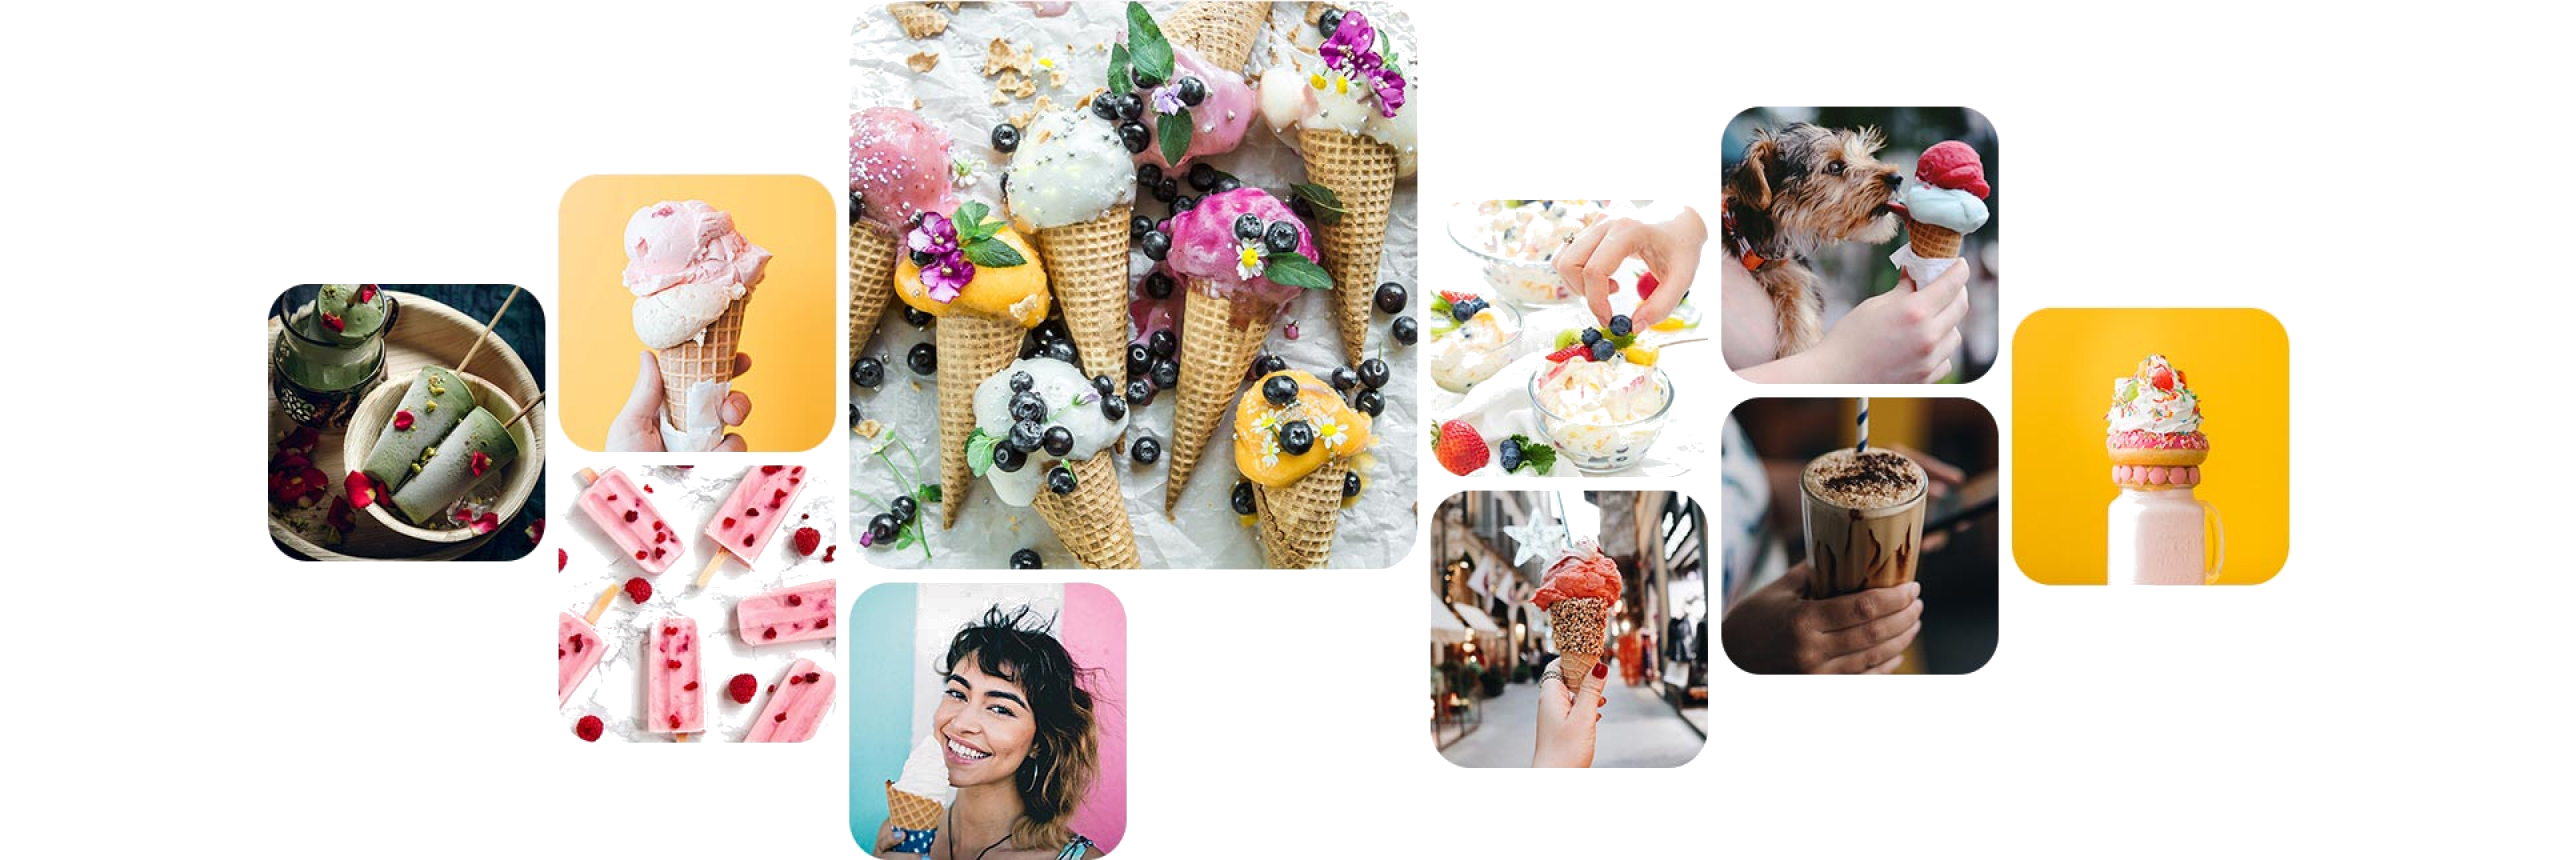
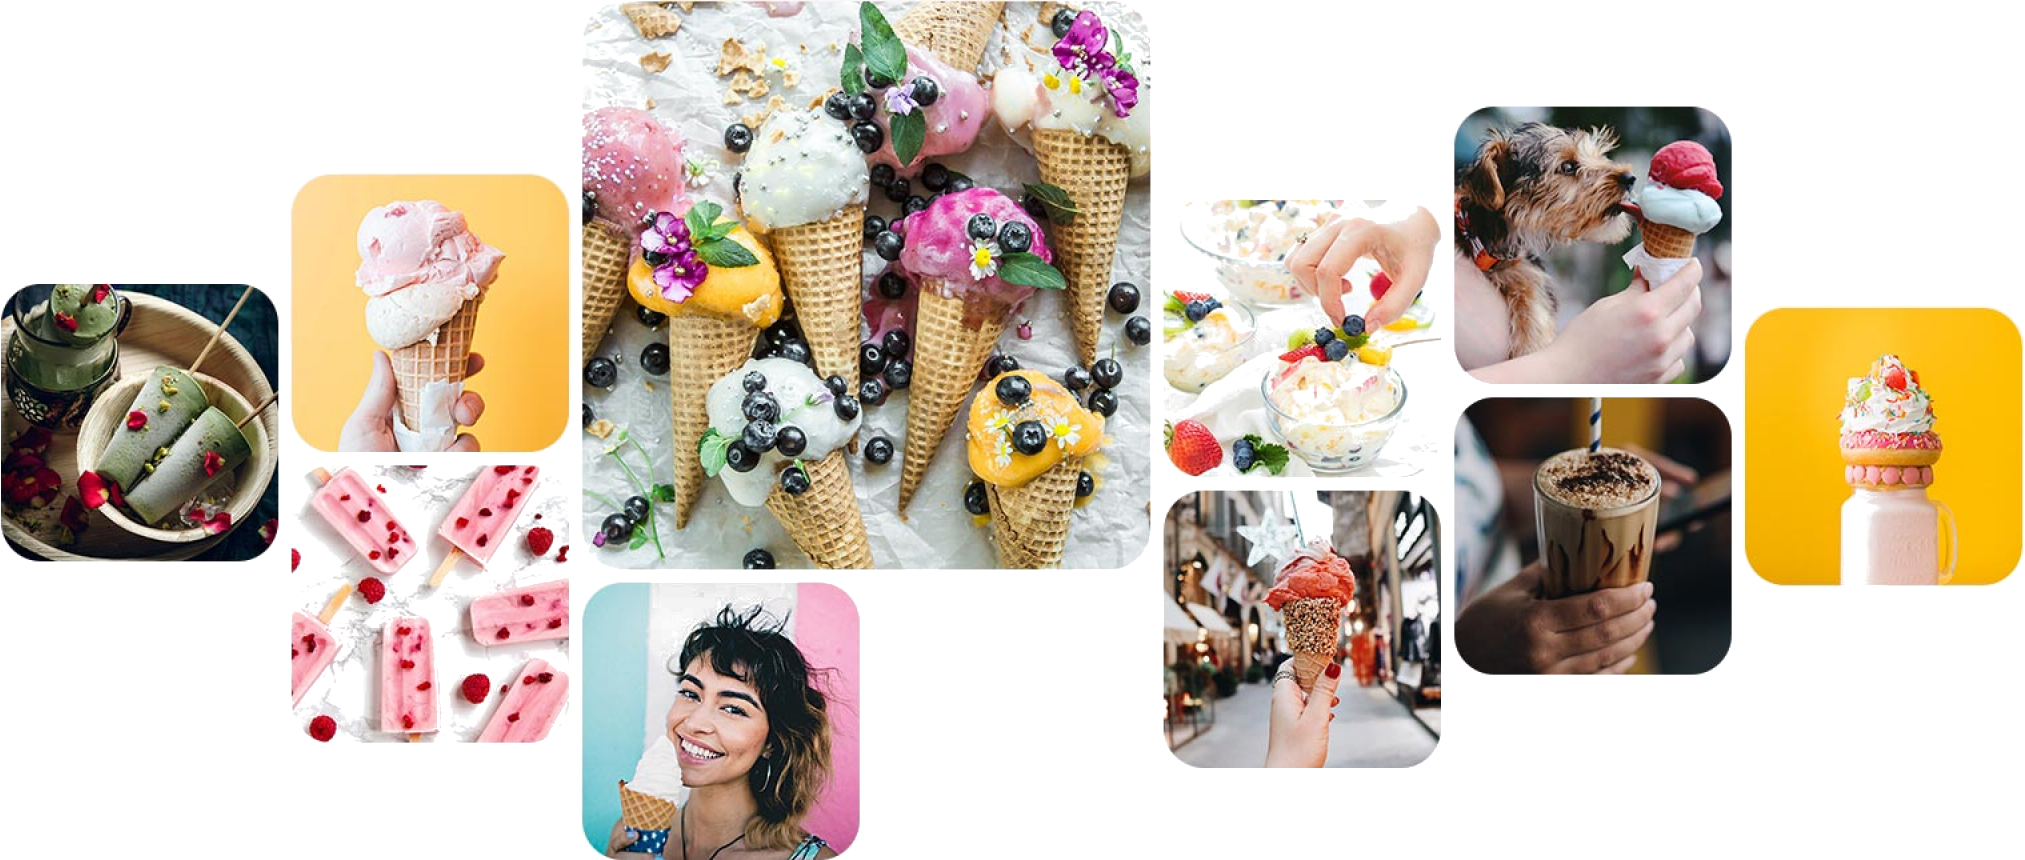
gallery-position-update

diff --git a/src/sass/components/_gallery.scss b/src/sass/components/_gallery.scss
@@ -9,7 +9,8 @@
   padding-bottom: 80px;
   &__pic {
     width: 100%;
-    max-width: 767px;
+    max-width: 700px;
+    display: block;
   }
 }
 
@@ -23,8 +24,8 @@
       get-gallery-background(light-bg-color) 100%
     );
     &__pic {
-      min-width: 767px;
-      max-width: 1279px;
+      min-width: 700px;
+      max-width: 1211px;
     }
   }
 }
@@ -39,7 +40,9 @@
       get-gallery-background(light-bg-color) 100%
     );
     &__pic {
-      min-width: 1279px;
+      min-width: 1048px;
+      display: flex;
+      justify-content: flex-start;
     }
   }
 }
